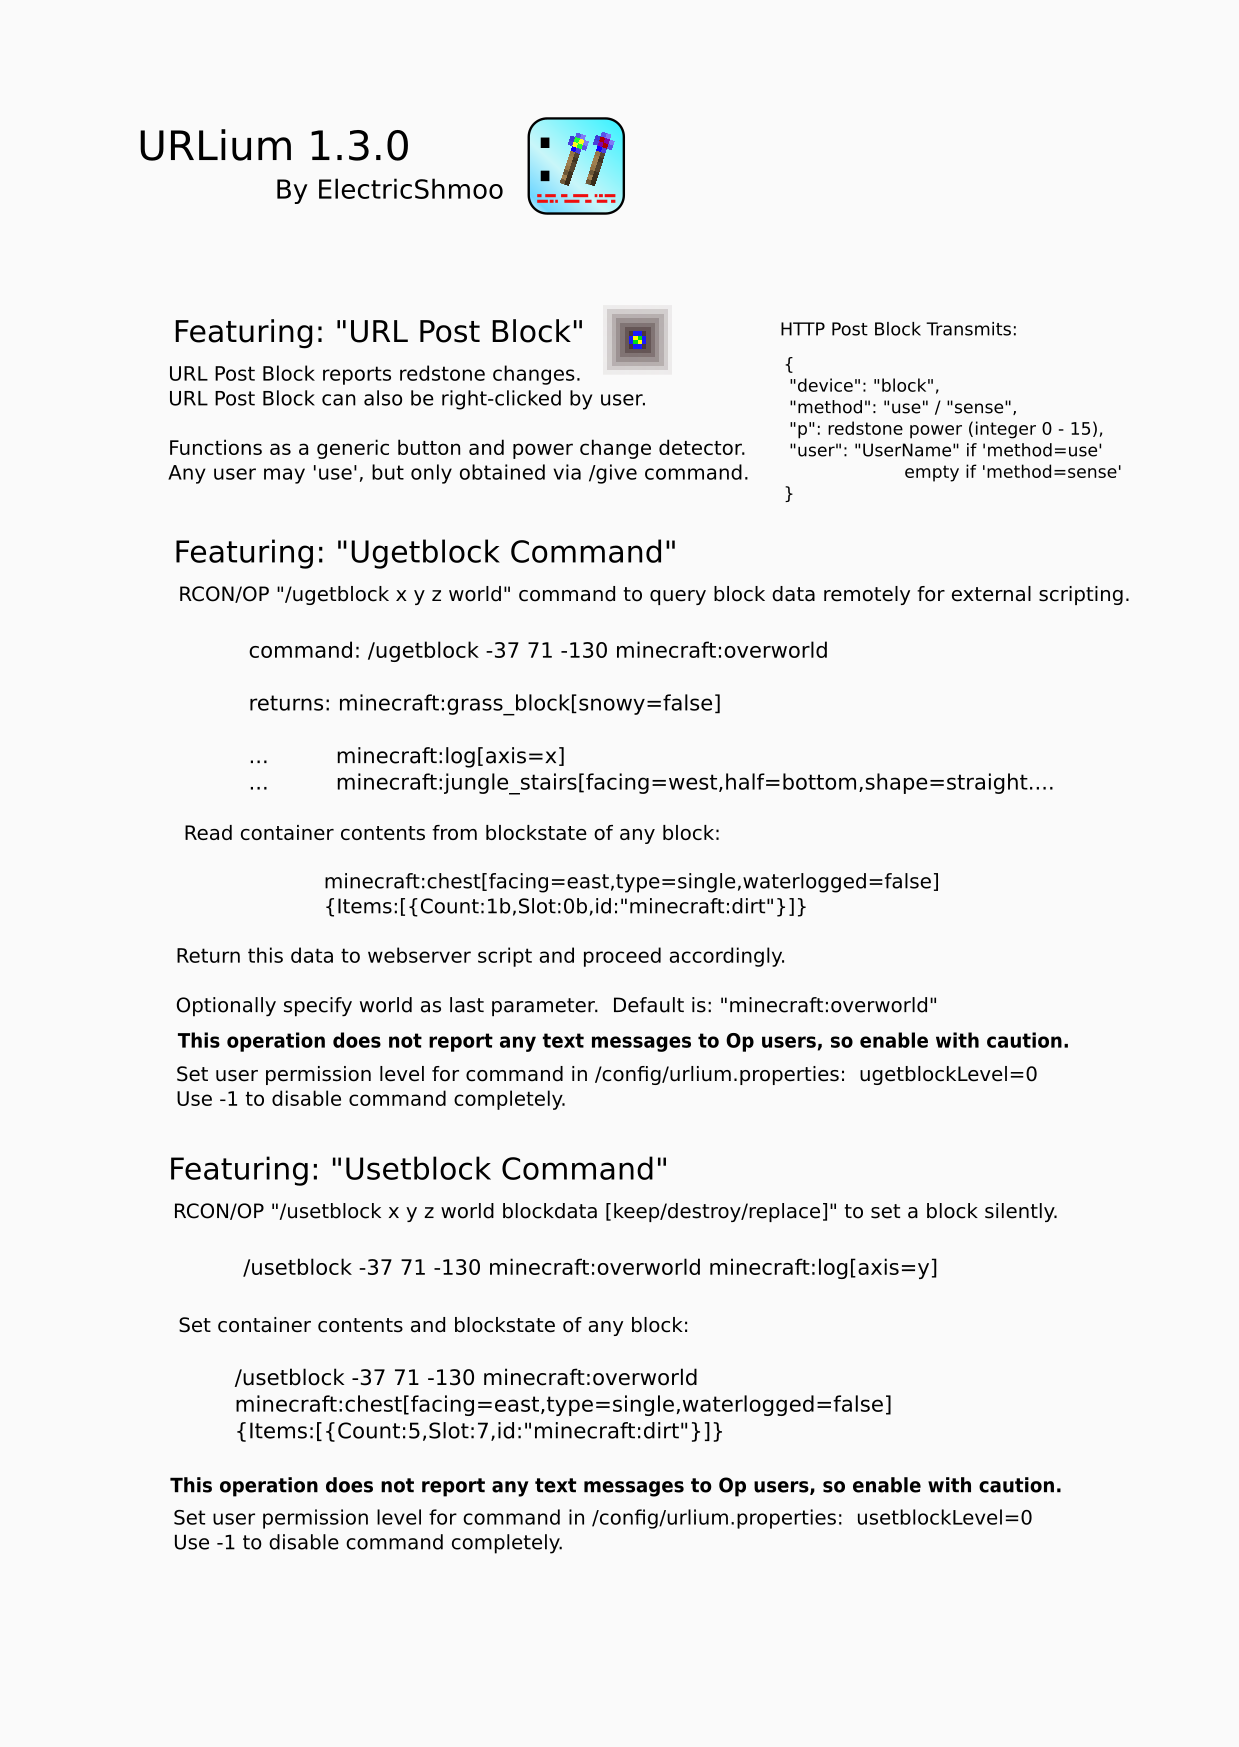
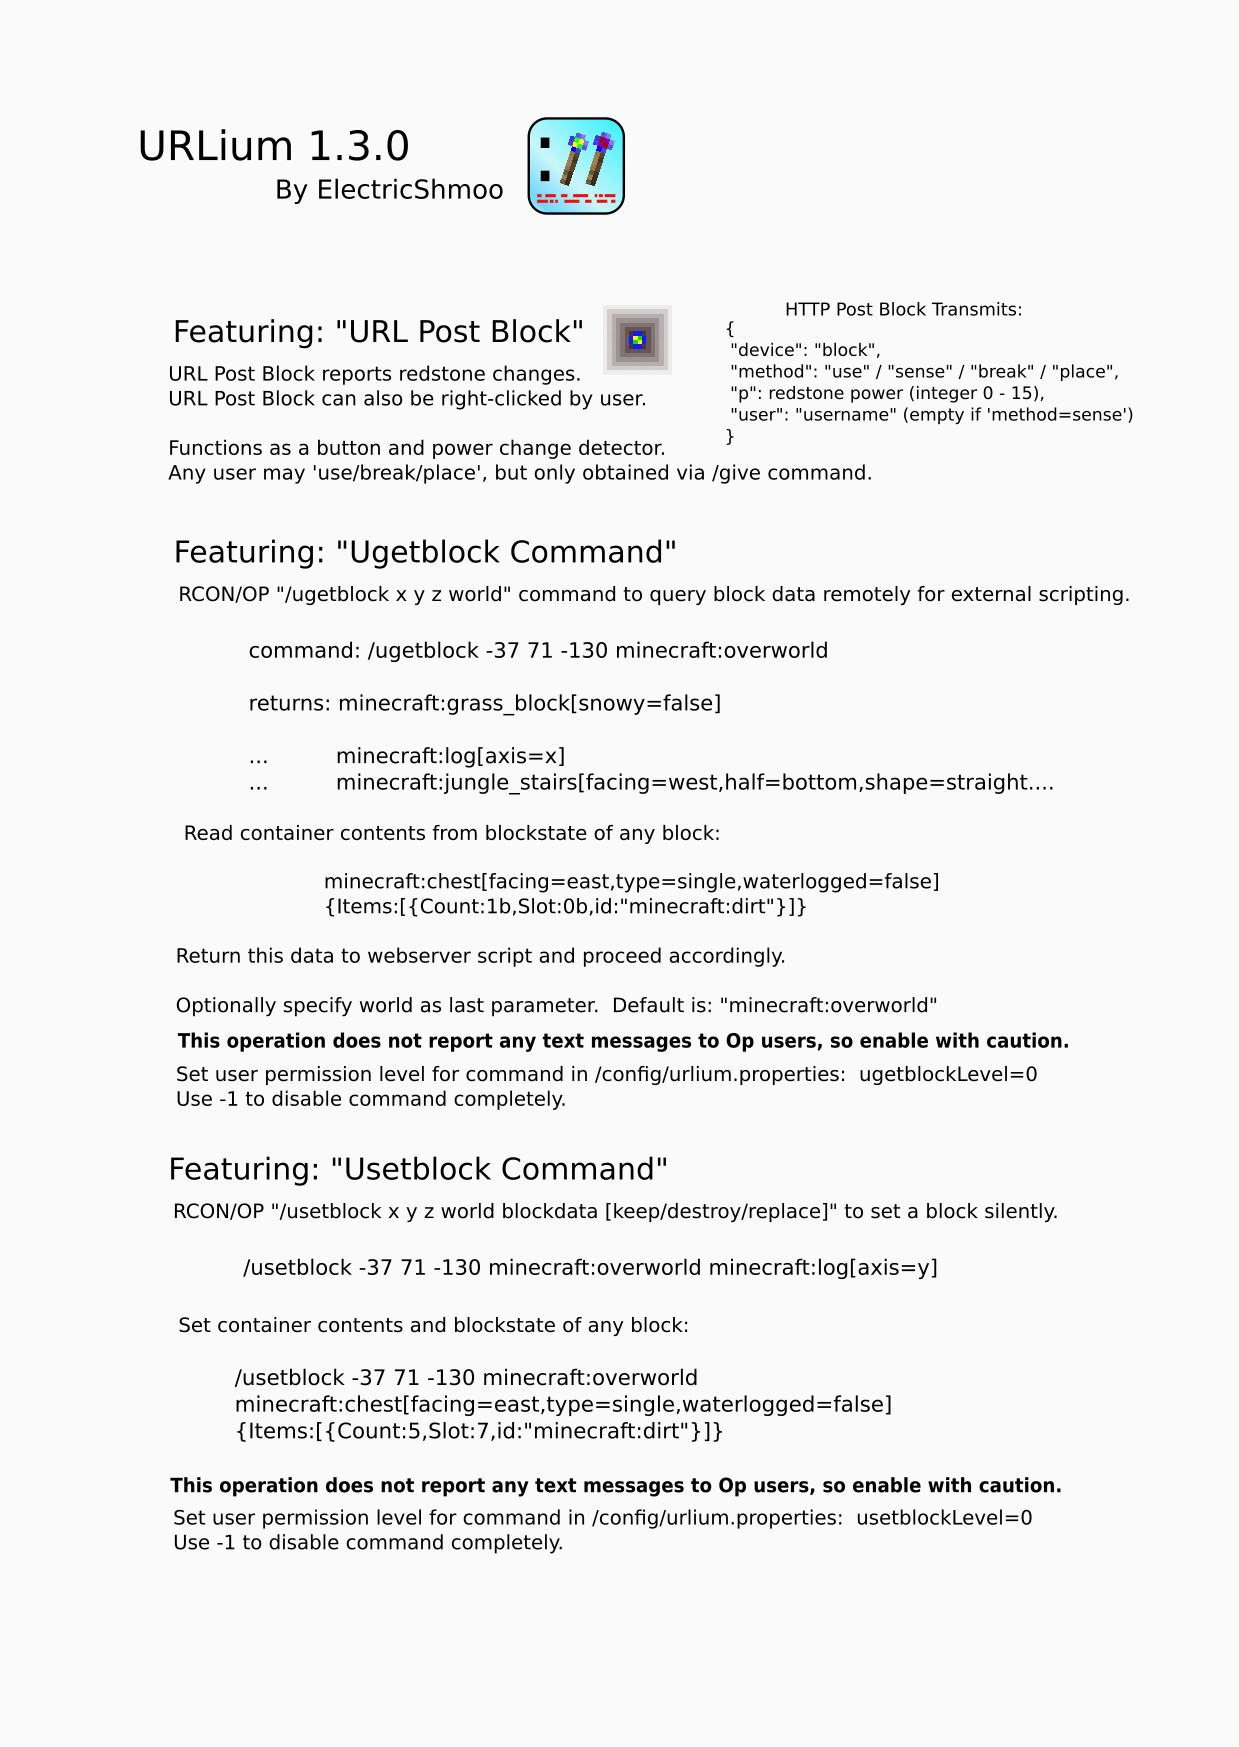
* Added onPlace and onBreak events to PostBlock, because why not?

Changed region(s): [[0.276, 0.1546, 0.8894, 0.2782]]

diff --git a/src/main/java/electricshmoo/urlium/block/UrlPostBlock.java b/src/main/java/electricshmoo/urlium/block/UrlPostBlock.java
@@ -9,6 +9,7 @@ import net.fabricmc.fabric.api.object.builder.v1.block.FabricBlockSettings;
 import net.minecraft.block.Block;
 import net.minecraft.block.BlockState;
 import net.minecraft.block.Blocks;
+import net.minecraft.entity.LivingEntity;
 import net.minecraft.entity.player.PlayerEntity;
 import net.minecraft.item.ItemPlacementContext;
 import net.minecraft.item.ItemStack;
@@ -82,7 +83,46 @@ public class UrlPostBlock extends Block implements PolymerTexturedBlock {
                 } catch (IOException ignore) { }
         }
     }
+    @Override
+    public void onBreak(World world, BlockPos pos, BlockState state, PlayerEntity player){
+        if (!world.isClient) {
+            try {
+                String userName = player.getEntityName();
+                long unixTime = System.currentTimeMillis();
+                Map<Object, Object> data = new HashMap<>();
+                data.put("device", "block");
+                data.put("method", "break");
+                data.put("user", userName);
+                data.put("ts", unixTime);
+                data.put("x", pos.getX());
+                data.put("y", pos.getY());
+                data.put("z", pos.getZ());
 
+                sendPOST(data);
+            } catch (IOException ignore) { }
+        }
+    }
+    @Override
+    public void onPlaced(World world, BlockPos pos, BlockState state, @Nullable LivingEntity placer, ItemStack itemStack) {
+        if (!world.isClient) {
+            try {
+                String userName = placer.getEntityName();
+                long unixTime = System.currentTimeMillis();
+                Map<Object, Object> data = new HashMap<>();
+                data.put("device", "block");
+                data.put("method", "place");
+                data.put("user", userName);
+                data.put("ts", unixTime);
+                data.put("x", pos.getX());
+                data.put("y", pos.getY());
+                data.put("z", pos.getZ());
+
+                sendPOST(data);
+
+            } catch (IOException ignore) {
+            }
+        }
+    }
     public ActionResult onUse(BlockState state, World world, BlockPos pos, PlayerEntity player, Hand hand, BlockHitResult hit){
         if (!world.isClient ) {
             int realpow = state.get(POWER);
